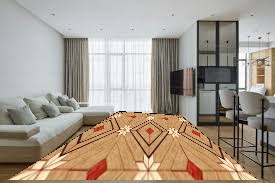
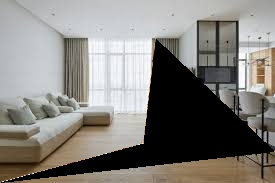
deep learning integration

diff --git a/v3.py b/v3.py
@@ -1,0 +1,81 @@
+import cv2
+import numpy as np
+import tensorflow as tf
+from tensorflow import keras
+from tensorflow.keras.preprocessing import image
+
+def load_pretrained_model():
+    """Load a pretrained DeepLabV3 model for semantic segmentation."""
+    model = tf.keras.applications.DenseNet201(weights='imagenet', include_top=False)
+    return model
+
+def apply_floor_design_using_dl(room_image_path, floor_design_path, output_image_path):
+    # Load the room image and floor design
+    room_image = cv2.imread(room_image_path)
+    floor_design = cv2.imread(floor_design_path)
+
+    # Resize the floor design to a fixed size
+    floor_design = cv2.resize(floor_design, (500, 500))
+
+    # Prepare the room image for prediction (resize and preprocess)
+    image_for_model = cv2.resize(room_image, (256, 256))  # Resize for the model input
+    image_for_model = tf.convert_to_tensor(image_for_model, dtype=tf.float32)
+    image_for_model = tf.expand_dims(image_for_model, axis=0)  # Add batch dimension
+
+    # Load the pre-trained semantic segmentation model
+    model = load_pretrained_model()
+
+    # Predict the segmentation mask for the room image
+    predictions = model.predict(image_for_model)  # Shape (1, 256, 256, 21) for 21 classes in output
+    floor_mask = predictions[0, :, :, 0]  # Assuming '0' is the class for the floor
+
+    # Threshold the mask to create a binary floor mask
+    floor_mask = np.where(floor_mask > 0.5, 255, 0).astype(np.uint8)
+
+    # Resize the mask back to the original room image size
+    floor_mask_resized = cv2.resize(floor_mask, (room_image.shape[1], room_image.shape[0]))
+
+    # Find contours in the mask to identify the floor area
+    contours, _ = cv2.findContours(floor_mask_resized, cv2.RETR_EXTERNAL, cv2.CHAIN_APPROX_SIMPLE)
+
+    # Find the largest contour (likely to be the floor)
+    floor_contour = max(contours, key=cv2.contourArea)
+
+    # Approximate the contour to get a polygon
+    epsilon = 0.05 * cv2.arcLength(floor_contour, True)
+    approx = cv2.approxPolyDP(floor_contour, epsilon, True)
+
+    # Get the width and height of the floor design
+    height, width, _ = floor_design.shape
+
+    # Define destination points for the perspective transform
+    dst_points = np.array([
+        [0, 0],
+        [width - 1, 0],
+        [width - 1, height - 1],
+        [0, height - 1]
+    ], dtype=np.float32)
+
+    # Apply the perspective transform if enough points are detected
+    if len(approx) >= 4:
+        src_points = np.array([point[0] for point in approx], dtype=np.float32)
+        matrix = cv2.getPerspectiveTransform(dst_points, src_points)
+        warped_design = cv2.warpPerspective(floor_design, matrix, (room_image.shape[1], room_image.shape[0]))
+
+        # Create a mask for blending the warped floor design
+        mask = np.zeros_like(room_image, dtype=np.uint8)
+        cv2.fillConvexPoly(mask, np.int32(src_points), (255, 255, 255))
+
+        # Combine the warped floor design with the room image
+        masked_warped_design = cv2.bitwise_and(warped_design, mask)
+        masked_room = cv2.bitwise_and(room_image, cv2.bitwise_not(mask))
+        final_image = cv2.add(masked_warped_design, masked_room)
+
+        # Save and display the result
+        cv2.imwrite(output_image_path, final_image)
+        cv2.imshow("Final Image", final_image)
+        cv2.waitKey(0)
+        cv2.destroyAllWindows()
+
+# Example usage
+apply_floor_design_using_dl("room_image.jpg", "floor_design.jpg", "output.jpg")
